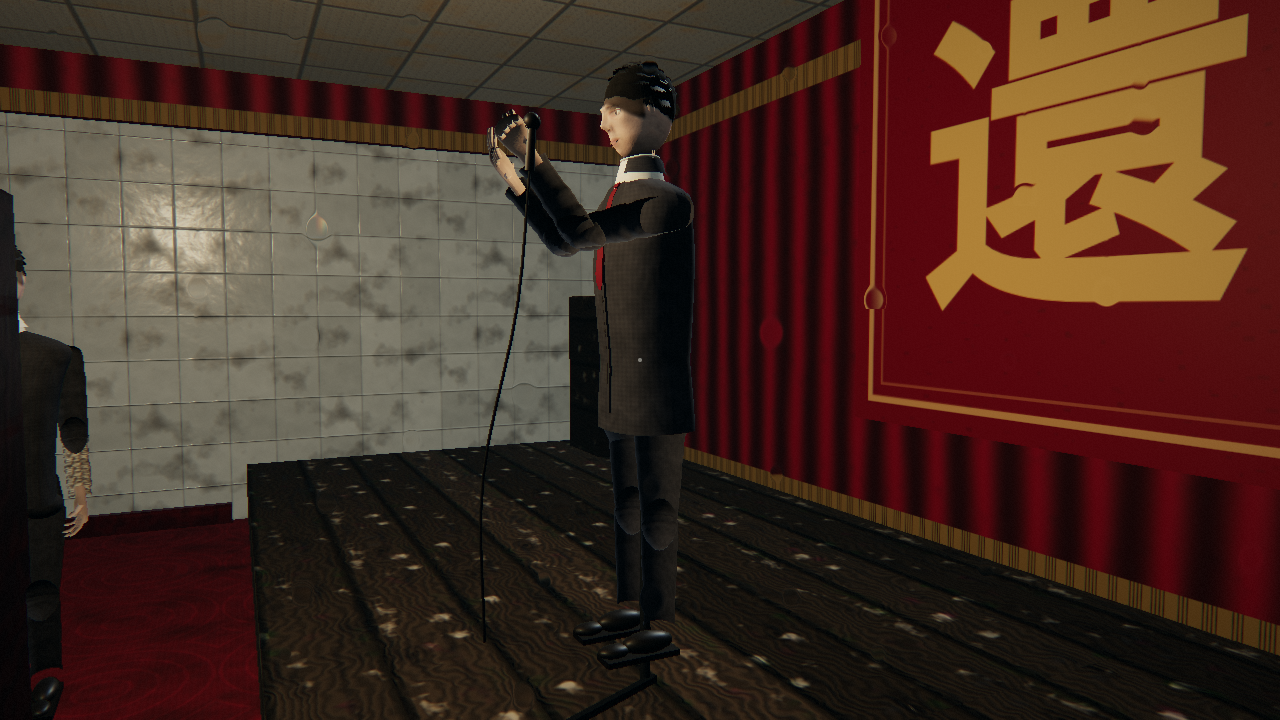
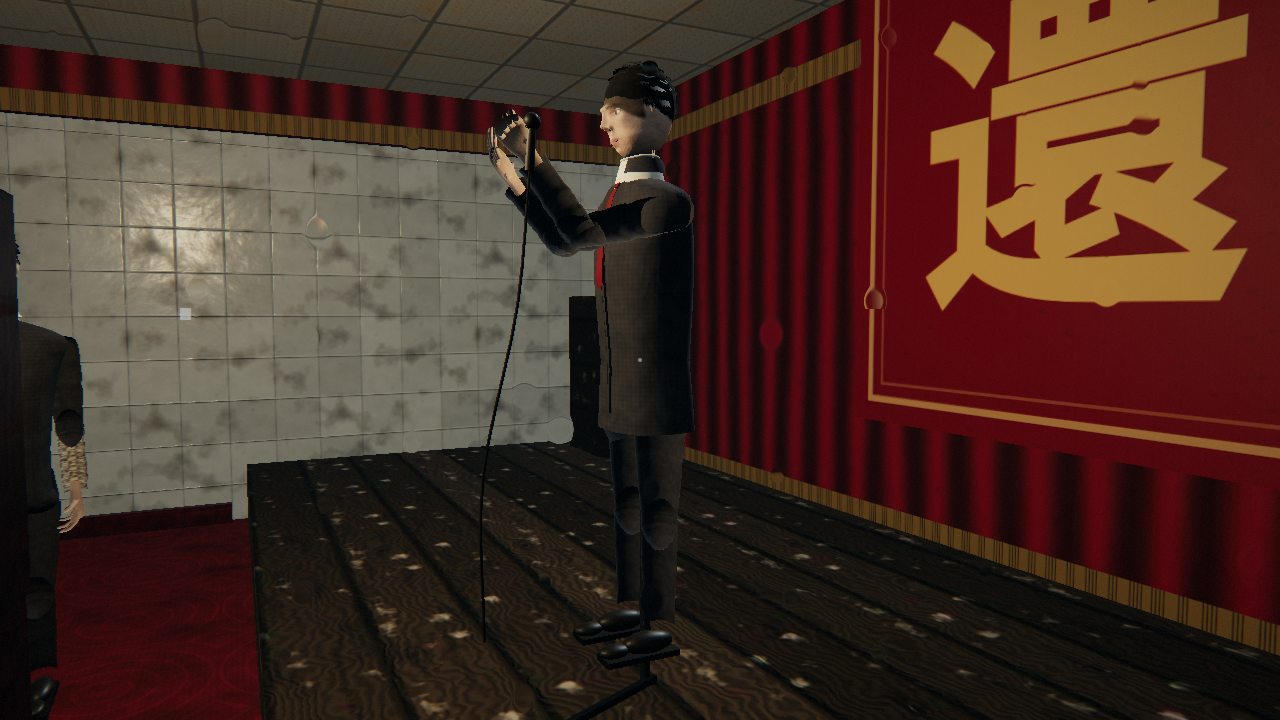
轮24六稿·单片眼镜真凶=睑-球环缝:①调试二分定位(藏虹膜/巩膜/角膜光点/上下睑/AO带+眼球前移全不消+0.35m平视不复现)——伪影是刀锋视角条件:眼球缩径0.86→0.81退窝后睑壳还留在×1.1旧轨道,睑缘环与球面张开2-3mm环缝,r24俯拍轴恰好穿缝看到聚光点亮的睑壳内皮(奶油竖条)+整圈睑缘环悬在球外(单片眼镜);②睑壳1.1→1.04收拢贴球+挂点z 0.0721→0.0716内收,下睑带1.03→1.0同步贴面;③睑内衬BackSide暗壳(0.985)——睑球缝隙从任何角度只能读成眶内阴影,不许漏亮内皮;④睑缘环1.4→1.1mm收半档+色0x8d6a56→0x7758

diff --git a/src/entities/humanoid.js b/src/entities/humanoid.js
@@ -2280,22 +2280,42 @@ export class Humanoid {
     // 「上睑半垂的普通邻居」而非「瞪圆的玩偶」；挂点 z 随眼球退窝同移
     this.lidBaseL = -0.37 + P.droopL * 0.10;
     this.lidBaseR = -0.37 + P.droopR * 0.10;
-    this.lidL = mkMesh(lidGeo(), lidSkin, -eyeXoff * HX, eyeYoff + 0.002, 0.0721 * HZ, eyeScl * 1.1, eyeScl * 1.1, eyeScl * 1.1);
+    // 轮24五稿·「单片眼镜」根治：眼球缩径退窝后睑壳还留在 ×1.1 的旧轨道上，
+    // 睑缘环与眼球面之间张开 2-3mm 环缝——俯视角穿缝看到睑壳被照亮的内面
+    // （奶油色竖条）+完整睑缘环悬在眼球外（emcee 左眼「独眼金属环」真凶，
+    // 刀锋视角条件、差 1-2° 就不复现）。睑壳 1.1→1.04 收拢贴球 + 挂点 z 内收
+    this.lidL = mkMesh(lidGeo(), lidSkin, -eyeXoff * HX, eyeYoff + 0.002, 0.0716 * HZ, eyeScl * 1.04, eyeScl * 1.04, eyeScl * 1.04);
     this.lidL.rotation.x = this.lidBaseL;
-    this.lidR = mkMesh(lidGeo(), lidSkin, eyeXoff * HX, eyeYoff + 0.002, 0.0721 * HZ, eyeScl * 1.1, eyeScl * 1.1, eyeScl * 1.1);
+    this.lidR = mkMesh(lidGeo(), lidSkin, eyeXoff * HX, eyeYoff + 0.002, 0.0716 * HZ, eyeScl * 1.04, eyeScl * 1.04, eyeScl * 1.04);
     this.lidR.rotation.x = this.lidBaseR;
+    // 睑内衬（BackSide 暗壳）：睑与眼球间的缝隙从任何角度只能读成眶内阴影，
+    // 不许再漏出被聚光点亮的睑壳内皮
+    {
+      const innerM = pick(Mtl('lidInnerM', () => new THREE.MeshStandardMaterial({
+        color: 0x2a1c14, roughness: 0.92, side: THREE.BackSide,
+      })));
+      for (const lid of [this.lidL, this.lidR]) {
+        const inner = new THREE.Mesh(lidGeo(), innerM);
+        inner.scale.setScalar(0.985);
+        inner.userData.noShadow = true;
+        lid.add(inner);
+      }
+    }
     // 睑缘厚度带（轮17）：上睑壳口一圈 1mm 圆环——眼皮是有「厚度」的皮盖，
     // 不是零厚度蛋壳切口；随睑一起眨（挂在睑网格下），色比睑面深半档=睑缘线
     {
       const rimG = G('lidRimBand24', () => {
-        // 轮24：睑缘管径 1.0→1.4mm——眼皮是有厚度的皮盖；近景睑缘一条实在的「肉线」
-        const t = new THREE.TorusGeometry(0.0135, 0.0014, 5, 20);
+        // 轮24：睑缘管径加粗——眼皮是有厚度的皮盖；近景睑缘一条实在的「肉线」
+        // 轮24五稿：1.4→1.1mm 收半档——睑壳收拢贴球后 1.4mm 管在近景读成
+        // 悬在眼球上方的一根「铅笔」
+        const t = new THREE.TorusGeometry(0.0135, 0.0011, 5, 20);
         t.rotateX(Math.PI / 2);           // 环面绕 y 轴（壳口纬线）
         t.translate(0, 0.0008, 0);        // 落到 0.52π 壳口纬度（轮23 随壳弧加宽下移）
         return t;
       });
-      const rimM = pick(Mtl('lidRimM', () => new THREE.MeshStandardMaterial({
-        color: 0x8d6a56, roughness: 0.72, envMapIntensity: 0.5,
+      const rimM = pick(Mtl('lidRimM24', () => new THREE.MeshStandardMaterial({
+        // 轮24五稿：0x8d6a56→0x77584a——暖聚光下亮成米色横杆；睑缘线比睑面深一档
+        color: 0x77584a, roughness: 0.78, envMapIntensity: 0.4,
       })));
       for (const lid of [this.lidL, this.lidR]) {
         const rim = new THREE.Mesh(rimG, rimM);
@@ -2309,9 +2329,10 @@ export class Humanoid {
     // 轮23：随加宽带体上抬（-0.58→-0.665）——下睑缘托到虹膜下缘
     // 轮24：-0.665→-0.70 下睑缘再托高 1mm + 挂点随眼球退窝同移
     this.lidLoBase = Math.PI - 0.70;
-    this.lidLoL = mkMesh(lidLoGeo(), lidSkin, -eyeXoff * HX, eyeYoff - 0.0026, 0.0706 * HZ, eyeScl * 1.03, eyeScl * 0.8, eyeScl * 1.03);
+    // 轮24五稿：下睑带同步收拢（1.03→1.0）——随眼球缩径贴面
+    this.lidLoL = mkMesh(lidLoGeo(), lidSkin, -eyeXoff * HX, eyeYoff - 0.0026, 0.0706 * HZ, eyeScl * 1.0, eyeScl * 0.8, eyeScl * 1.0);
     this.lidLoL.rotation.x = this.lidLoBase;
-    this.lidLoR = mkMesh(lidLoGeo(), lidSkin, eyeXoff * HX, eyeYoff - 0.0026, 0.0706 * HZ, eyeScl * 1.03, eyeScl * 0.8, eyeScl * 1.03);
+    this.lidLoR = mkMesh(lidLoGeo(), lidSkin, eyeXoff * HX, eyeYoff - 0.0026, 0.0706 * HZ, eyeScl * 1.0, eyeScl * 0.8, eyeScl * 1.0);
     this.lidLoR.rotation.x = this.lidLoBase;
     this.head.add(this.lidLoL, this.lidLoR);
     // 睫毛：上睑缘窄弯带（贴图两端 alpha 渐隐——内外眦无贴片尖角）
